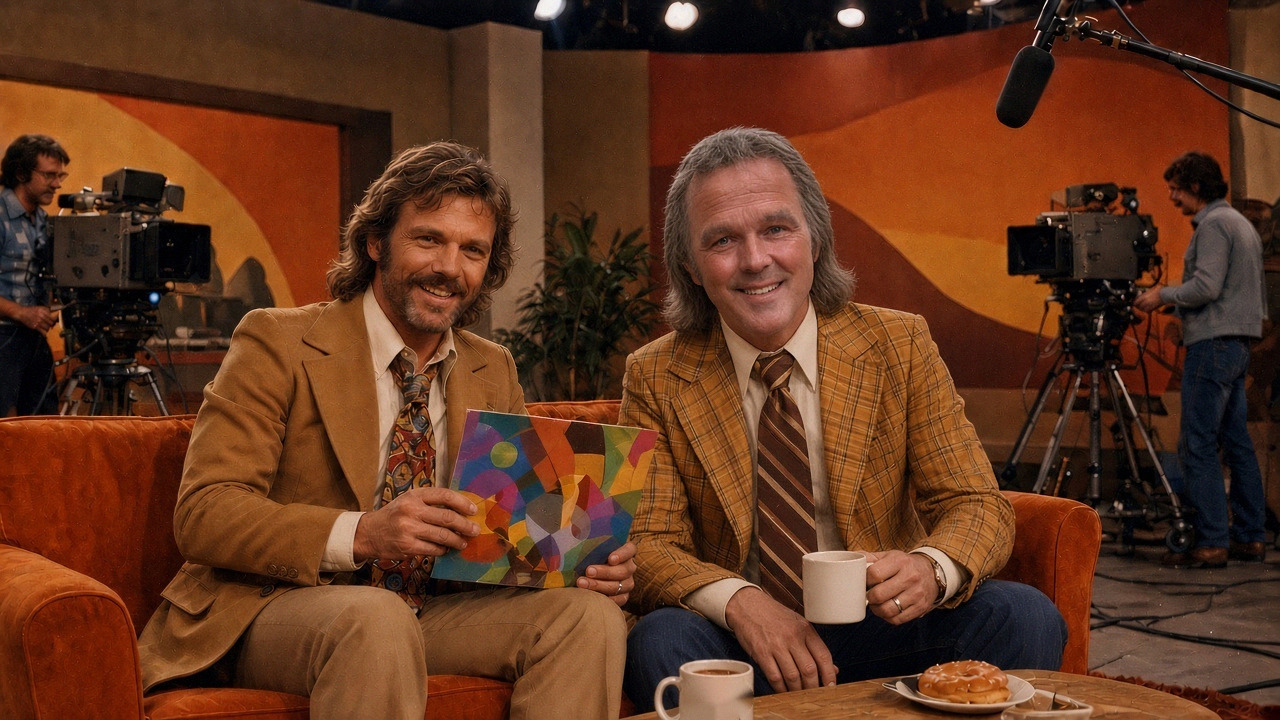
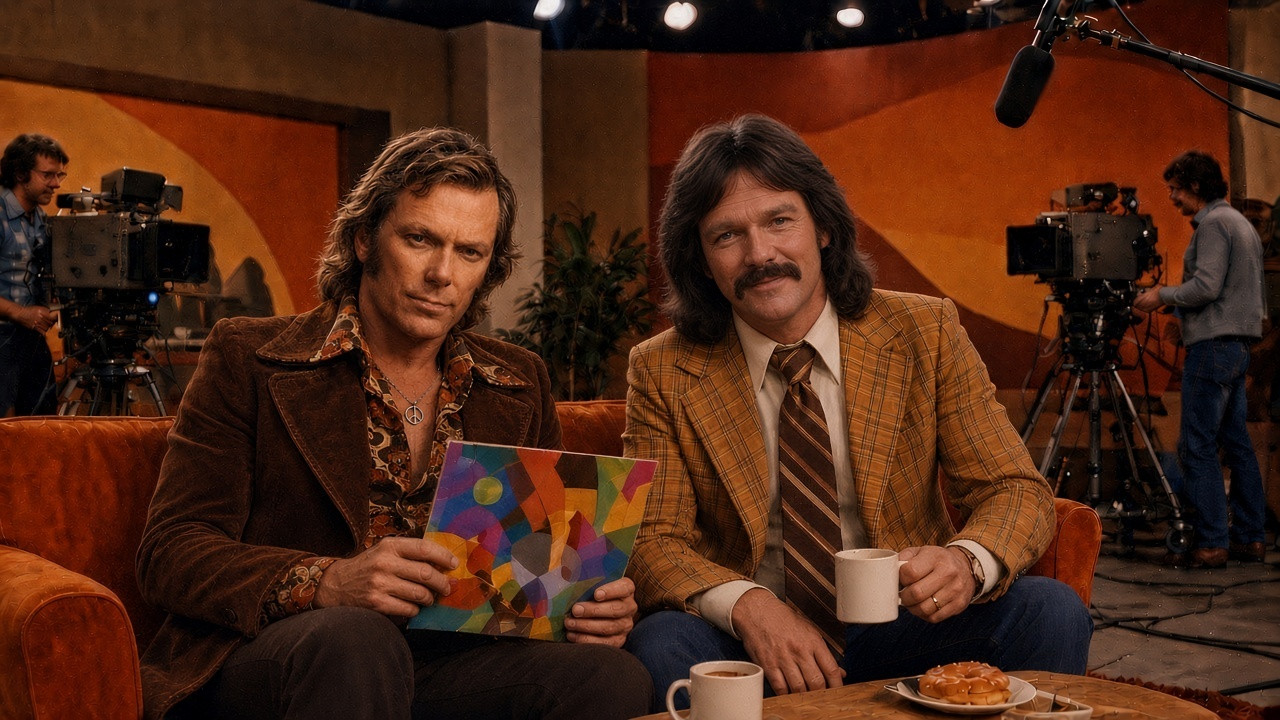
Studio visit: recast the morning-show photo and drop the television still.
The Ad Man sits the interview in the velvet jacket; Chuck looks cooler, and the green-room still is gone.

diff --git a/preview-wy4u7thzbj5o/behind-the-scenes/index.html b/preview-wy4u7thzbj5o/behind-the-scenes/index.html
@@ -169,25 +169,18 @@
 
     <div class="art-body">
       <h2>And then he went on television</h2>
-      <p>The genius behind the site was also booked, because of course he was, as a guest on a perfectly ordinary morning show: <i>Rise &amp; Shine with Chuck Daley</i>. Orange couch, houseplant, coffee, a doughnut that did not get eaten on air. Chuck wore a tie you could see from a passing car. The Ad Man wore a sharper one, and brought an LP whose sleeve, he was careful to say, “is not the point. The point is the atmosphere.”</p>
+      <p>The genius behind the site was also booked, because of course he was, as a guest on a perfectly ordinary morning show: <i>Rise &amp; Shine with Chuck Daley</i>. Orange couch, houseplant, coffee, a doughnut that did not get eaten on air. Chuck wore a tie you could see from a passing car. The Ad Man wore a brown velvet jacket and an open shirt, and brought an LP whose sleeve, he was careful to say, “is not the point. The point is the atmosphere.”</p>
     </div>
 
     <div class="art-body">
       <figure class="art-pic">
         <picture>
-          <source srcset="img/bts-tv.webp?v=2" type="image/webp">
-          <img src="img/bts-tv.jpg?v=2" width="1280" height="720" alt="On a cheesy 1970s morning-television set, the Ad Man in a camel wide-lapel jacket and a bold tie sits on an orange couch holding a colourful abstract LP, beside host Chuck Daley, a confident interviewer with semi-long feathered salt-and-pepper hair, a yellow plaid wide-lapel jacket and a wide striped tie, who holds a coffee mug; studio cameras, a boom microphone, a plant and a doughnut are visible" loading="lazy">
+          <source srcset="img/bts-tv.webp?v=3" type="image/webp">
+          <img src="img/bts-tv.jpg?v=3" width="1280" height="720" alt="On a cheesy 1970s morning-television set, the Ad Man in a brown velvet jacket and an open floral shirt, a peace pendant at his throat, sits on an orange couch holding a colourful abstract LP, beside host Chuck Daley, a cooler interviewer with dark mid-length 70s hair, a full mustache, a gold plaid wide-lapel jacket and a wide striped tie, who holds a coffee mug; studio cameras, a boom microphone, a plant and a doughnut are visible" loading="lazy">
         </picture>
         <figcaption>Live, more or less, on <i>Rise &amp; Shine with Chuck Daley</i>. The doughnut on the table was for atmosphere. Chuck ate it later, off-camera, which the Ad Man called “honest programming.”</figcaption>
       </figure>
 
-      <figure class="art-pic">
-        <picture>
-          <source srcset="img/bts-tv-still.webp?v=2" type="image/webp">
-          <img src="img/bts-tv-still.jpg?v=2" width="1280" height="720" alt="A grainy off-screen television still, with visible scanlines, of the same morning-show interview: the Ad Man and host Chuck Daley on the orange couch, a colourful LP and a coffee mug in their hands" loading="lazy">
-        </picture>
-        <figcaption>As it looked on a set in the green room — a television, slightly too bright, with the scanlines still in the picture. Someone had written “DON’T TOUCH THE HUE” on a piece of tape. Someone had touched the hue.</figcaption>
-      </figure>
 
       <p>We took a transcript from the tape, minus the weather, a recipe for meatloaf, and a jingle we did not have the rights to remember.</p>
 
@@ -206,7 +199,7 @@
       <p class="q"><span class="who">Chuck Daley.</span> Record Store Day is coming. Advice for the folks at home, besides watching us?</p>
       <p class="a"><span class="who">The Ad Man.</span> Doors open at eight. Bring your elbows. If you can’t find a shop, you are not looking hard enough. And if a man in a mustard jacket holds the door, that is marketing, not a miracle.</p>
 
-      <p>Chuck thanked him, held up the mug, and threw to a map with a smiling sun. In the hallway afterward the Ad Man straightened his tie, which had not been crooked, and said, “That’s the show. Now: back to the grain.” We let him go. The doughnut, as noted, did not survive.</p>
+      <p>Chuck thanked him, held up the mug, and threw to a map with a smiling sun. In the hallway afterward the Ad Man smoothed the velvet jacket, which had not needed it, and said, “That’s the show. Now: back to the grain.” We let him go. The doughnut, as noted, did not survive.</p>
 
       <p class="fine">Fine print: The Ad Man is an invented on-page character and is not named as a real person. Ruthie Kowalski, Ellis Brennan, Sid Rosario, Connie Voss, Debbie Fane and Chuck Daley are invented too; so is <i>Rise &amp; Shine with Chuck Daley</i>. This studio visit is a period-style feature in the spirit of the site. We show no likeness of Ace Frehley or other members of KISS; the comic pages in these photographs are colour panels from the Ace stories on this site; the masked rocker remains a stand-in, not a likeness of a real person. The Vinyl desk interviews and the vintage hi-fi ads are as you find them elsewhere on the site. The ads are fake. The records are real. The megaphone was, in fact, plastic.</p>
       <a class="back" href="../">← Back to the true tales</a>
